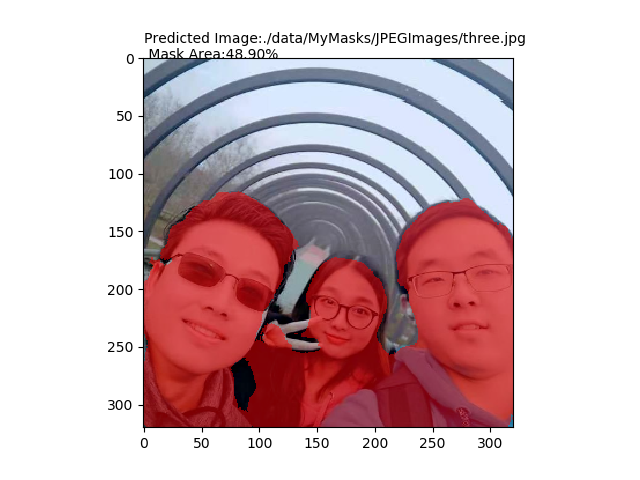
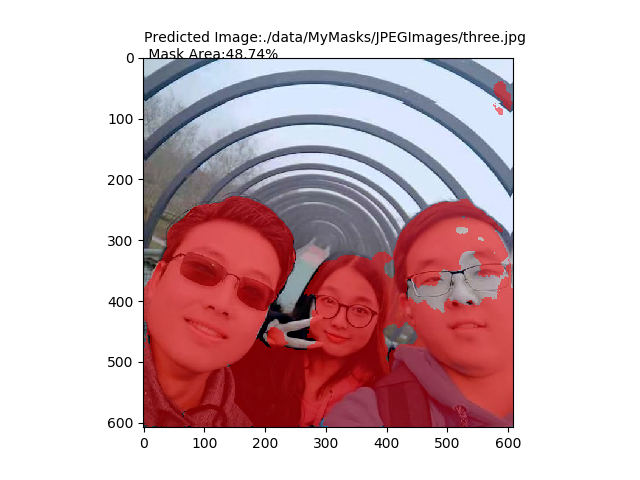
arbitary input size of prediction

diff --git a/predict.py b/predict.py
@@ -35,6 +35,7 @@ import numpy as np
 import matplotlib.pyplot as plt
 import albumentations as A
 import segmentation_models as sm
+from math import ceil
 
 # rgba format, add alpha channel to transparent the background
 MASKCOLOR=[128,0,0,0.5]
@@ -55,8 +56,14 @@ preprocess_input = sm.get_preprocessing(args.backbone)
 image = cv2.imread(args.input_image)
 # pre-processing, simplified from the original ipynb file
 image = cv2.cvtColor(image, cv2.COLOR_BGR2RGB)
+# rather than resize the image to 320x320,
+# we want aritary size of input image
+H,W,C = image.shape
+H = 32*ceil(H/32)
+W = 32*ceil(W/32)
 aug = A.Compose([
-           A.Resize(320,320) 
+           #A.Resize(320,320) 
+        A.PadIfNeeded(H,W)
             ])
 sample = aug(image=image)
 image = sample['image']
@@ -80,4 +87,4 @@ pr_mask = pr_mask[...,np.newaxis] # add a newaxis for convert to rgba format
 pr_mask=np.dot(pr_mask,np.array(MASKCOLOR)[np.newaxis,...])
 plt.imshow(pr_mask,interpolation=None)
 plt.savefig(args.output)
-print('save file successfully')
+print('save file successfully as {}'.format(args.output))

diff --git a/README.md b/README.md
@@ -2,6 +2,8 @@
 
 This markdown file is a manual about how to modify the data-loader of [this great Github repo](https://github.com/qubvel/segmentation_models) to use segmentation model with custom datasets. And then deploy the model on jetson nano.
 
+<img src=".\img\notsquare2-1590757864650.png" alt="preview" style="zoom:72%;" />
+
 ### Workflow Overview
 
 [TOC]
@@ -505,3 +507,51 @@ model = tf.keras.models.load_model(path,compile=False,custom_objects{
 'swish':tf.compat.v2.nn.swish,
 'FixedDropout':FixedDropout})
 ```
+
+##### image preprocessing
+
+Pre-processing is indispensable if want to obtain a decent predict result. 
+
+Firstly, we need to resize the image size to multiple times of 32. Because in Unet architecture, there are 5 2X Pooling layers, the original image will be resized to 1/32. We could use `Albumentation.PadIfNeeded` function to pad the image.
+
+```python
+# pseudo code
+import Albumentation as A
+from math import ceil
+H,W,C = image.shape
+H = 32*ceil(H/32)
+W = 32*ceil(W/32)
+aug = A.Compose([A.PadIfNeeded(H,W)])
+sample = aug(image=image)
+image = sample['image']
+```
+
+After padding the image, we need to process the image with the preprocessing function offered by segmentation_models package.
+
+```python
+# pseudo code
+import segmentation_models as sm
+BACKBONE = 'efficientnetb3'
+preprocess_input = sm.get_preprocessing(BACKBONE)
+pre = A.Compose([
+        A.Lambda(image=preprocess_input)
+        ])
+sample = pre(image=image)
+image = sample['image']
+```
+
+##### predict
+
+Prediction is done by one line `model.predict`. Similar as the training stage, the size of input image is `(BATCHSIZE,H,W,C)`, the size of output masks is `(BATCHSIZE,H,W,N)`, where `BATCHSIZE` should always be 1 in prediction case, and `N` is the number of classes to predict, in binary segmentation case should be 1. 
+
+```python
+# add the BATCHSIZE axis to the (H,W,3) image
+# so that the input image becomes (1,H,W,3) in size
+image = np.expand_dims(image, axis=0)
+pr_mask = model.predict(image).round()
+pr_mask = pr_mask[...,0] # select the first class on the mask axis
+pr_mask = pr_mask.squeeze() # squeeze out the batch axis to get (H,W) scala mask
+```
+
+
+
